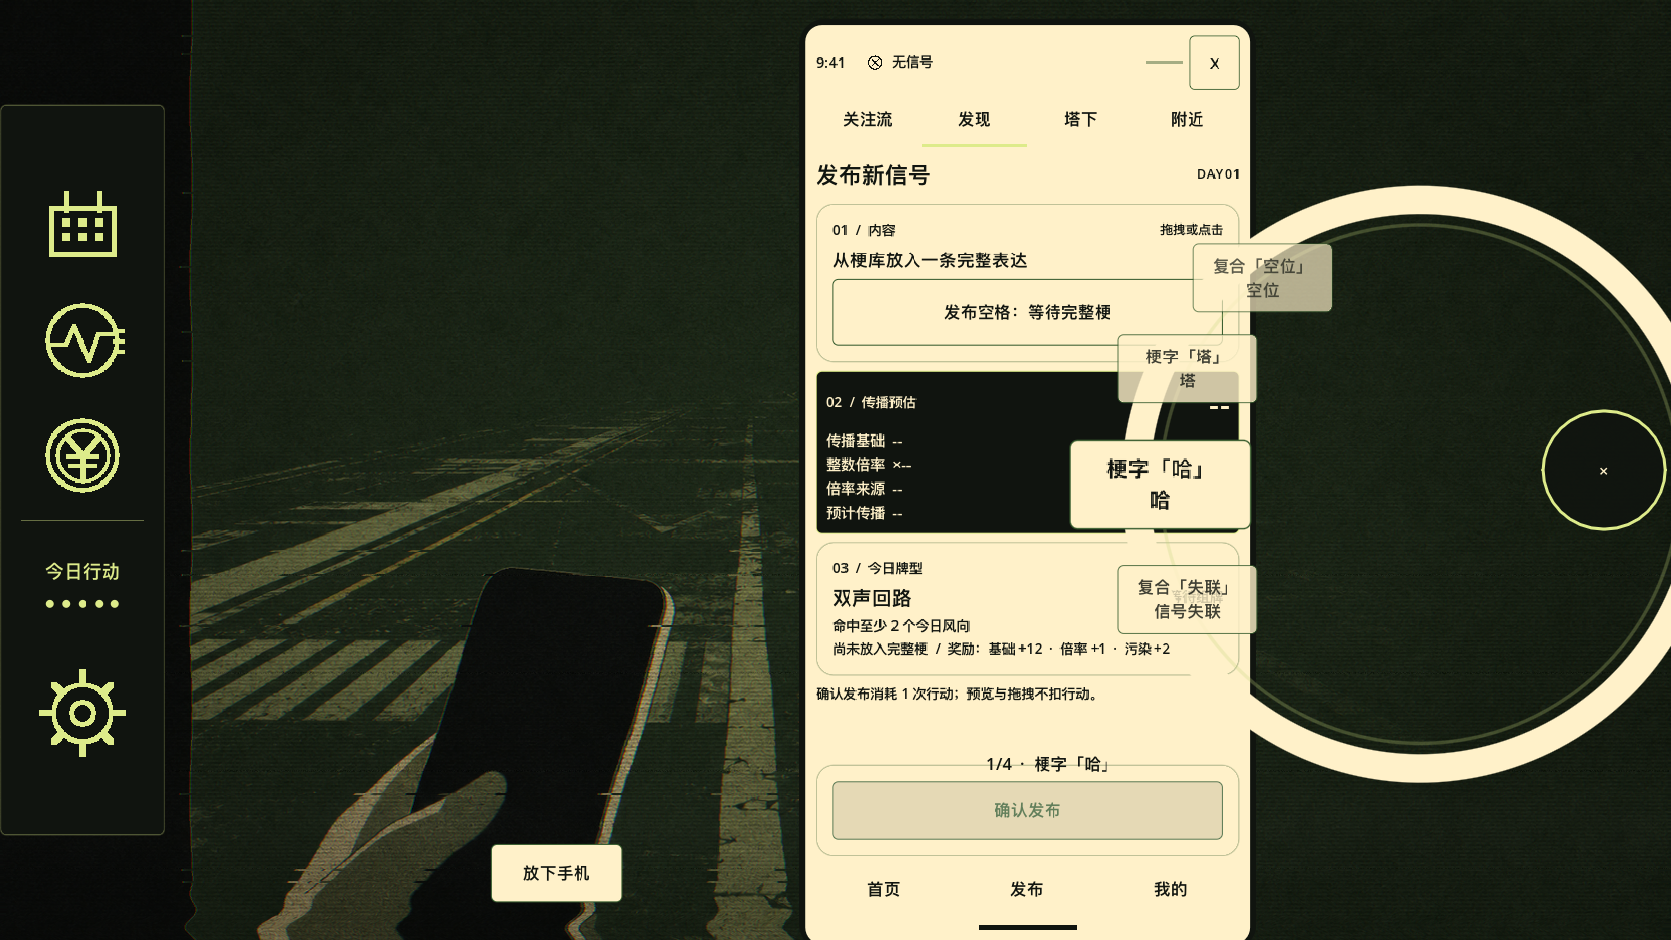
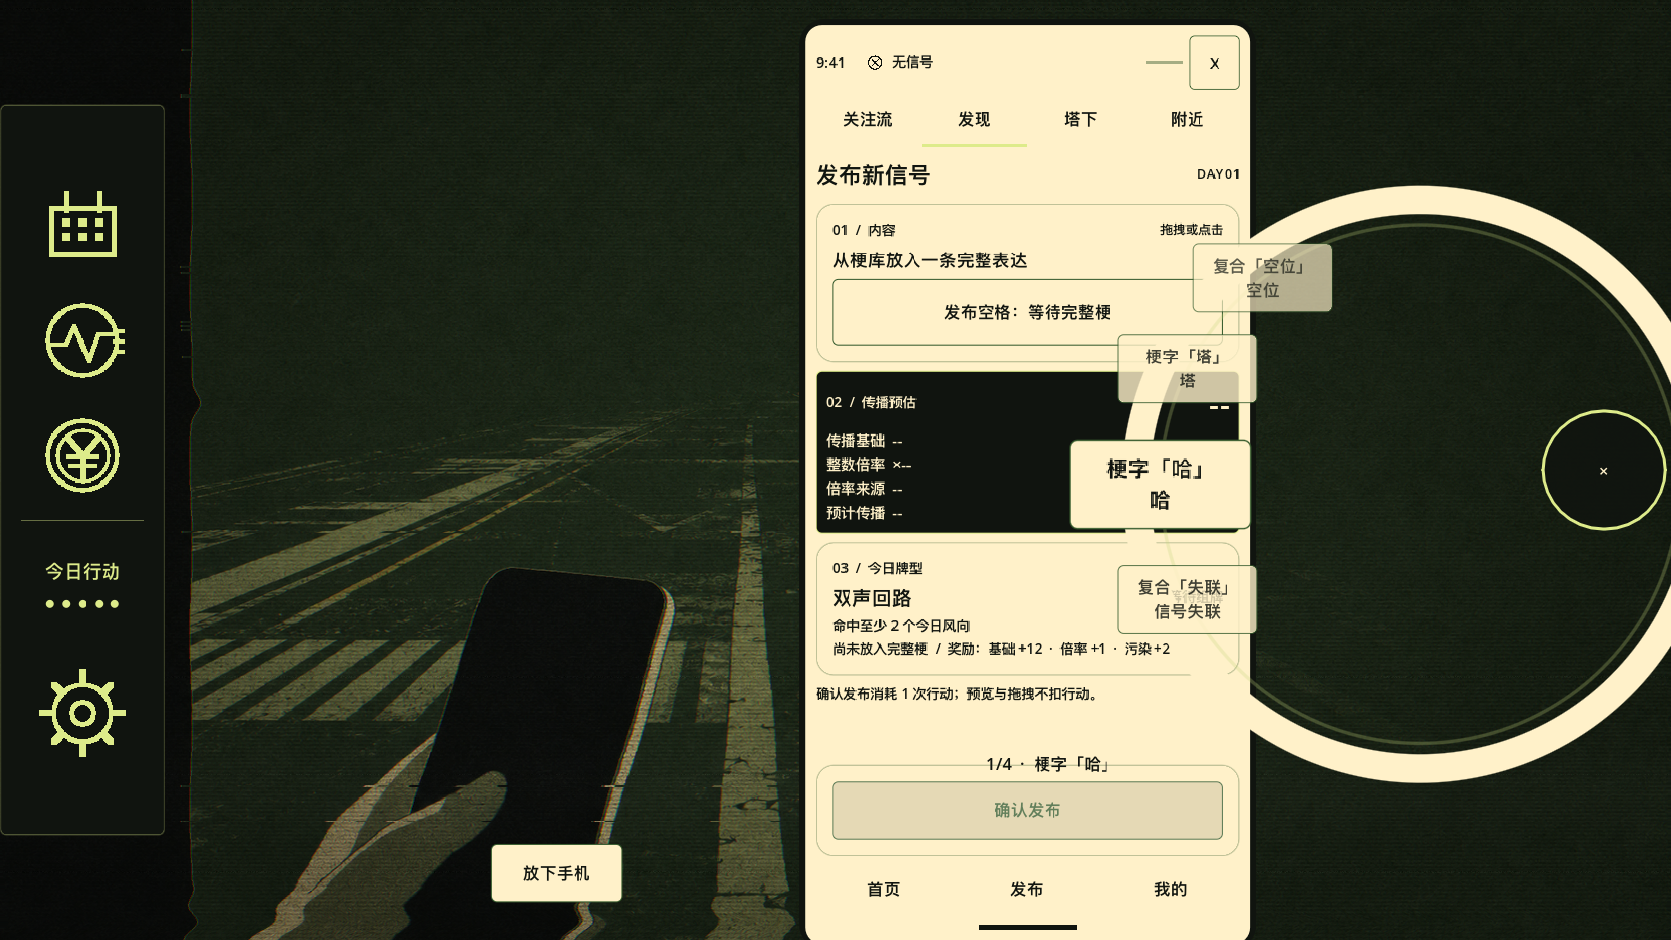
fix: close final review timing gaps

diff --git a/docs/goal_completion_matrix.md b/docs/goal_completion_matrix.md
@@ -31,7 +31,7 @@ This matrix is the handoff contract for independent review. A row is complete on
 | 12A | NPC and merchant art should feel more unsettling, indie, and less cute/mature-realistic. | Four curated 1024 x 1536 portraits share faceless cream heads, restrained green/black print grain, front-facing compact proportions, and role-specific props. | `test_character_assets.gd` pins the curated sources, transparent canvas, palette, and featureless face region; `test_reality_world.gd` verifies floor-independent colors. | Source assets under `assets/generated/characters/`; latest NPC and merchant captures above. |
 | 13 | Overall presentation should use restrained psychological-horror craft inspired by repeated-space, compliance, and subjective-perception references. | Deterministic light-memory, failed-sign, rare mirage, language-pollution flashback, inherited-language pressure, and non-jumpscare spatial repetition form one authored system. | `test_authored_horror_events.gd`, `test_oldweb_archive.gd`, `test_playthrough_flow.gd`, and `test_main_scene.gd` cover scheduling, state transitions, progression, and the empty-tower ending. | `tools/current_horror_*.png`; research synthesis in `docs/design/psychological_horror_event_research.md`. |
 | A | NPCs and merchant are eye-level, slightly cartoon, and have no facial details. | All four source images are featureless. Runtime normalizes portraits to 1.90 m, grounds their feet, places face centers within 0.08 m of the 1.56 m first-person eye line, and keeps both image layers billboarding together. | `test_character_assets.gd` and `_assert_actor_face_veil()` in `test_reality_world.gd`. | Latest NPC/merchant captures above. |
-| B | A faceless watcher appears once per floor behind nearby cover, retreats on approach, vanishes, and plays a 2-3 second cue. | Per-floor persistent seen state, cropped image billboard exposing roughly half the body, physical cover, a movement-plus-view trigger, 6.4 m approach threshold, quint retreat, and 2.45 s non-looping generated stinger. | `test_cover_watcher.gd` computes visible width from live geometry and verifies look-away cannot spend the encounter. `test_save_progress.gd` drives the real generator signal through the main scene, checks audio, approaches until vanished, saves, continues, and verifies the event cannot rebuild. `test_audio_runtime.gd` verifies the cue. | `tools/current_horror_cover_watcher.png`, `tools/current_horror_cover_watcher_retreat.png`, `tools/current_horror_cover_watcher_gone.png`. |
+| B | A faceless watcher appears once per floor behind nearby cover, retreats on approach, vanishes, and plays a 2-3 second cue. | Per-floor persistent seen state, cropped image billboard exposing roughly half the body, physical cover, a strict delay-plus-view trigger, 6.4 m approach threshold, quint retreat, and 2.45 s non-looping generated stinger. | `test_cover_watcher.gd` computes visible width from live geometry and verifies that neither looking away nor moving quickly can bypass the appearance delay. `test_save_progress.gd` drives the real generator signal through the main scene, checks audio, approaches until vanished, saves, continues, and verifies the event cannot rebuild. `test_audio_runtime.gd` verifies the cue. | `tools/current_horror_cover_watcher.png`, `tools/current_horror_cover_watcher_retreat.png`, `tools/current_horror_cover_watcher_gone.png`. |
 
 ## Test Command
 